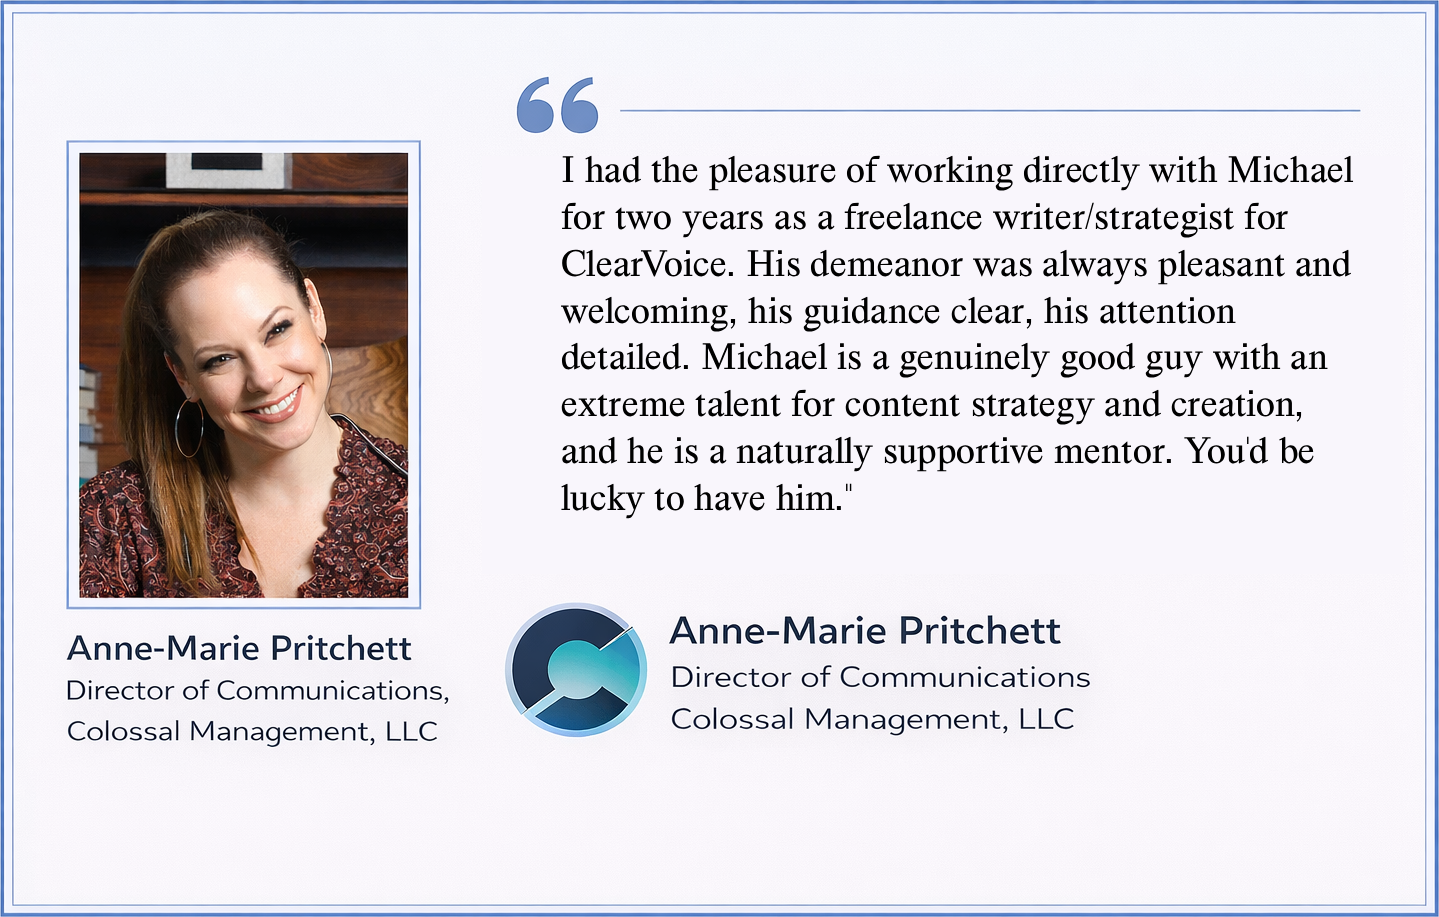
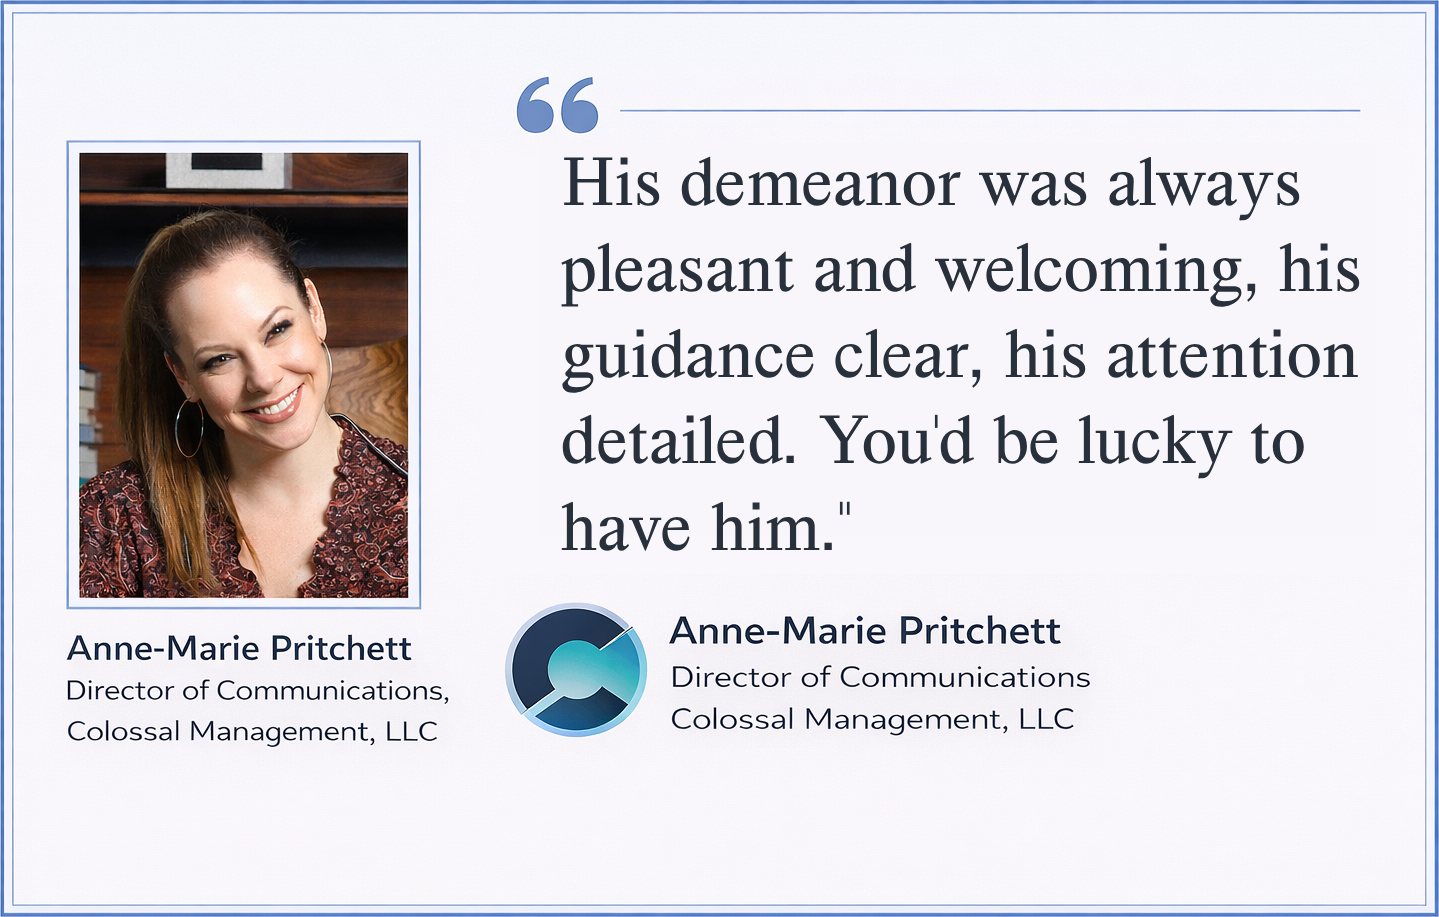
added testimonials and achored image viewer to previous points on previous page

Changed region(s): [[0.3669, 0.1527, 0.9479, 0.6107]]

diff --git a/index.html b/index.html
@@ -177,6 +177,46 @@
       color: #e2e8f0;
       text-shadow: 0 6px 18px rgba(2, 6, 23, 0.5);
     }
+    .hero-actions {
+      display: flex;
+      flex-wrap: wrap;
+      gap: 14px;
+      margin-top: 30px;
+    }
+    .hero-action {
+      display: inline-flex;
+      align-items: center;
+      justify-content: center;
+      min-width: 190px;
+      padding: 14px 24px;
+      border-radius: 999px;
+      border: 1px solid rgba(191, 219, 254, 0.35);
+      text-decoration: none;
+      font-weight: 700;
+      transition: transform 0.25s ease, background 0.25s ease, border-color 0.25s ease, box-shadow 0.25s ease;
+    }
+    .hero-action:hover,
+    .hero-action:focus-visible {
+      transform: translateY(-2px);
+    }
+    .hero-action-primary {
+      background: linear-gradient(135deg, #38bdf8 0%, #2563eb 100%);
+      color: #eff6ff;
+      box-shadow: 0 16px 30px rgba(37, 99, 235, 0.3);
+    }
+    .hero-action-primary:hover,
+    .hero-action-primary:focus-visible {
+      box-shadow: 0 18px 34px rgba(37, 99, 235, 0.36);
+    }
+    .hero-action-secondary {
+      background: rgba(15, 23, 42, 0.4);
+      color: #dbeafe;
+    }
+    .hero-action-secondary:hover,
+    .hero-action-secondary:focus-visible {
+      background: rgba(30, 41, 59, 0.68);
+      border-color: rgba(191, 219, 254, 0.55);
+    }
     .hero-portrait {
       display: grid;
       justify-items: center;
@@ -316,6 +356,16 @@
     #education .education-meta {
       color: #cbd5e1;
     }
+    #testimonials {
+      background-image:
+        linear-gradient(135deg, rgba(15, 23, 42, 0.9) 0%, rgba(30, 41, 59, 0.86) 100%),
+        url('background7.png');
+      background-color: #111827;
+    }
+    #testimonials h2,
+    #testimonials p {
+      color: #f8fafc;
+    }
     #projects {
       background-image:
         linear-gradient(135deg, rgba(15, 23, 42, 0.1) 0%, rgba(17, 24, 39, 0.1) 52%, rgba(30, 41, 59, 0.1) 100%),
@@ -443,6 +493,107 @@
       text-decoration: none;
       font-weight: 700;
     }
+    .testimonials-intro {
+      margin: 0;
+      max-width: 720px;
+      color: #cbd5e1;
+    }
+    .testimonials-carousel {
+      margin-top: 12px;
+      display: grid;
+      gap: 20px;
+    }
+    .testimonial-stage {
+      width: min(860px, 100%);
+      margin: 0 auto;
+    }
+    .testimonial-slide {
+      margin: 0;
+      display: none;
+    }
+    .testimonial-slide[hidden] {
+      display: none !important;
+    }
+    .testimonial-slide.active {
+      display: block;
+      animation: testimonialFadeIn 0.4s ease;
+    }
+    @keyframes testimonialFadeIn {
+      from {
+        opacity: 0;
+        transform: translateY(4px);
+      }
+      to {
+        opacity: 1;
+        transform: translateY(0);
+      }
+    }
+    .testimonial-card {
+      display: block;
+      padding: 16px;
+      border-radius: 22px;
+      background: rgba(248, 250, 252, 0.07);
+      border: 1px solid rgba(148, 163, 184, 0.18);
+      box-shadow: 0 18px 40px rgba(2, 6, 23, 0.22);
+    }
+    .testimonial-stage .testimonial-slide {
+      display: none;
+    }
+    .testimonial-stage .testimonial-slide.active {
+      display: block;
+    }
+    .testimonial-card img {
+      display: block;
+      width: 100%;
+      height: auto;
+      border-radius: 14px;
+    }
+    .testimonial-image-link {
+      display: block;
+      text-decoration: none;
+      cursor: zoom-in;
+    }
+    .testimonial-controls {
+      display: flex;
+      justify-content: center;
+      align-items: center;
+      gap: 16px;
+      flex-wrap: wrap;
+    }
+    .testimonial-nav {
+      border: 1px solid rgba(147, 197, 253, 0.45);
+      background: rgba(15, 23, 42, 0.55);
+      color: #e2e8f0;
+      border-radius: 999px;
+      padding: 10px 18px;
+      font-weight: 600;
+      cursor: pointer;
+      transition: background 0.2s ease, transform 0.2s ease, border-color 0.2s ease;
+    }
+    .testimonial-nav:hover,
+    .testimonial-nav:focus-visible {
+      transform: translateY(-1px);
+      background: rgba(30, 41, 59, 0.85);
+      border-color: rgba(147, 197, 253, 0.75);
+    }
+    .testimonial-dots {
+      display: flex;
+      align-items: center;
+      gap: 10px;
+    }
+    .testimonial-dot {
+      width: 11px;
+      height: 11px;
+      border-radius: 50%;
+      border: 0;
+      background: rgba(148, 163, 184, 0.5);
+      cursor: pointer;
+      padding: 0;
+    }
+    .testimonial-dot.active {
+      background: #93c5fd;
+      box-shadow: 0 0 0 3px rgba(147, 197, 253, 0.25);
+    }
     .site-footer {
       border-top: 1px solid #0b1733;
       background-image: linear-gradient(135deg, rgba(15, 23, 42, 0.9) 0%, rgba(30, 41, 59, 0.88) 100%),
@@ -569,8 +720,20 @@
       .hero-text {
         text-align: center;
       }
+      .hero-actions {
+        justify-content: center;
+      }
       .hero-portrait {
         justify-items: center;
+      }
+      .testimonial-card {
+        padding: 12px;
+      }
+      .testimonial-controls {
+        gap: 12px;
+      }
+      .testimonial-nav {
+        padding: 9px 16px;
       }
       .container {
         padding-inline-start: 12px;
@@ -651,6 +814,10 @@
           <p class="hero-title-subtitle">Focused on human-centered insights</p>
           <br>
           <p>Currently completing a 9-month AI & Machine Learning program at TripleTen while building hands-on experience in Python, data cleaning, exploratory data analysis, statistical analysis, and model development.</p>
+          <div class="hero-actions">
+            <a class="hero-action hero-action-primary" href="resume.pdf" download>Download Resume</a>
+            <a class="hero-action hero-action-secondary" href="contact.html">Contact Michael</a>
+          </div>
         </div>
         <div class="hero-portrait">
           <img src="headshot.png" alt="Michael Brewer headshot" />
@@ -755,6 +922,41 @@
         <div class="education-item">
           <h4>Arizona State University — Bachelor's Degree, Journalism and Mass Communication</h4>
           <p class="education-meta">2011 - 2013 · Walter Cronkite School of Journalism and Mass Communication</p>
+        </div>
+      </div>
+    </section>
+
+    <section id="testimonials">
+      <div class="container resume-card">
+        <h2>Testimonials</h2>
+        <p class="testimonials-intro">A few endorsements from collaborators who have worked directly with Michael.</p>
+        <div class="testimonials-carousel" id="testimonials-carousel">
+          <div class="testimonial-stage">
+            <figure class="testimonial-slide testimonial-card active">
+              <a href="image-viewer.html?img=t1.png&from=index.html%23testimonials" class="testimonial-image-link" aria-label="Open testimonial 1 in full size viewer">
+                <img src="t1.png" alt="Testimonial from Anne-Marie Pritchett, Director of Communications at Colossal Management, LLC" loading="lazy" />
+              </a>
+            </figure>
+            <figure class="testimonial-slide testimonial-card" hidden>
+              <a href="image-viewer.html?img=t2.png&from=index.html%23testimonials" class="testimonial-image-link" aria-label="Open testimonial 2 in full size viewer">
+                <img src="t2.png" alt="Testimonial from Melody Montoya, Marketing Automation Associate Manager at Beckman Coulter Life Sciences" loading="lazy" />
+              </a>
+            </figure>
+            <figure class="testimonial-slide testimonial-card" hidden>
+              <a href="image-viewer.html?img=t3.png&from=index.html%23testimonials" class="testimonial-image-link" aria-label="Open testimonial 3 in full size viewer">
+                <img src="t3.png" alt="Testimonial from Shauna Vert, Principal Consultant and Owner of Shauna Vert Communications" loading="lazy" />
+              </a>
+            </figure>
+          </div>
+          <div class="testimonial-controls" aria-label="Testimonial navigation">
+            <button class="testimonial-nav" type="button" data-direction="prev" aria-label="Show previous testimonial">Previous</button>
+            <div class="testimonial-dots">
+              <button class="testimonial-dot active" type="button" data-slide-index="0" aria-label="Show testimonial 1" aria-current="true"></button>
+              <button class="testimonial-dot" type="button" data-slide-index="1" aria-label="Show testimonial 2" aria-current="false"></button>
+              <button class="testimonial-dot" type="button" data-slide-index="2" aria-label="Show testimonial 3" aria-current="false"></button>
+            </div>
+            <button class="testimonial-nav" type="button" data-direction="next" aria-label="Show next testimonial">Next</button>
+          </div>
         </div>
       </div>
     </section>
@@ -870,6 +1072,86 @@
         pageNav?.classList.remove('open');
       });
     });
+
+    const testimonialCarousel = document.getElementById('testimonials-carousel');
+    if (testimonialCarousel) {
+      const testimonialSlides = Array.from(testimonialCarousel.querySelectorAll('.testimonial-slide'));
+      const testimonialDots = Array.from(testimonialCarousel.querySelectorAll('.testimonial-dot'));
+      const testimonialPrevButton = testimonialCarousel.querySelector('[data-direction="prev"]');
+      const testimonialNextButton = testimonialCarousel.querySelector('[data-direction="next"]');
+      const shouldReduceMotion = window.matchMedia('(prefers-reduced-motion: reduce)').matches;
+      let activeTestimonialIndex = 0;
+      let testimonialAutoTimer = null;
+
+      const updateTestimonial = index => {
+        if (!testimonialSlides.length) {
+          return;
+        }
+        activeTestimonialIndex = (index + testimonialSlides.length) % testimonialSlides.length;
+
+        testimonialSlides.forEach((slide, slideIndex) => {
+          const isActive = slideIndex === activeTestimonialIndex;
+          slide.classList.toggle('active', isActive);
+          slide.hidden = !isActive;
+        });
+
+        testimonialDots.forEach((dot, dotIndex) => {
+          const isActive = dotIndex === activeTestimonialIndex;
+          dot.classList.toggle('active', isActive);
+          dot.setAttribute('aria-current', isActive ? 'true' : 'false');
+        });
+      };
+
+      const stopTestimonialAutoPlay = () => {
+        if (testimonialAutoTimer) {
+          window.clearInterval(testimonialAutoTimer);
+          testimonialAutoTimer = null;
+        }
+      };
+
+      const startTestimonialAutoPlay = () => {
+        if (shouldReduceMotion || testimonialSlides.length < 2) {
+          return;
+        }
+        stopTestimonialAutoPlay();
+        testimonialAutoTimer = window.setInterval(() => {
+          updateTestimonial(activeTestimonialIndex + 1);
+        }, 6000);
+      };
+
+      testimonialPrevButton?.addEventListener('click', () => {
+        updateTestimonial(activeTestimonialIndex - 1);
+        startTestimonialAutoPlay();
+      });
+
+      testimonialNextButton?.addEventListener('click', () => {
+        updateTestimonial(activeTestimonialIndex + 1);
+        startTestimonialAutoPlay();
+      });
+
+      testimonialDots.forEach(dot => {
+        dot.addEventListener('click', () => {
+          const requestedIndex = Number.parseInt(dot.dataset.slideIndex || '', 10);
+          if (Number.isNaN(requestedIndex)) {
+            return;
+          }
+          updateTestimonial(requestedIndex);
+          startTestimonialAutoPlay();
+        });
+      });
+
+      testimonialCarousel.addEventListener('mouseenter', stopTestimonialAutoPlay);
+      testimonialCarousel.addEventListener('focusin', stopTestimonialAutoPlay);
+      testimonialCarousel.addEventListener('mouseleave', startTestimonialAutoPlay);
+      testimonialCarousel.addEventListener('focusout', event => {
+        if (!testimonialCarousel.contains(event.relatedTarget)) {
+          startTestimonialAutoPlay();
+        }
+      });
+
+      updateTestimonial(0);
+      startTestimonialAutoPlay();
+    }
 
     let isProgressTicking = false;
     const updateScrollProgress = () => {

diff --git a/image-viewer.html b/image-viewer.html
@@ -321,7 +321,7 @@
     }
 
     backButton.addEventListener('click', event => {
-      if (document.referrer && history.length > 1) {
+      if (history.length > 1) {
         event.preventDefault();
         history.back();
       }
